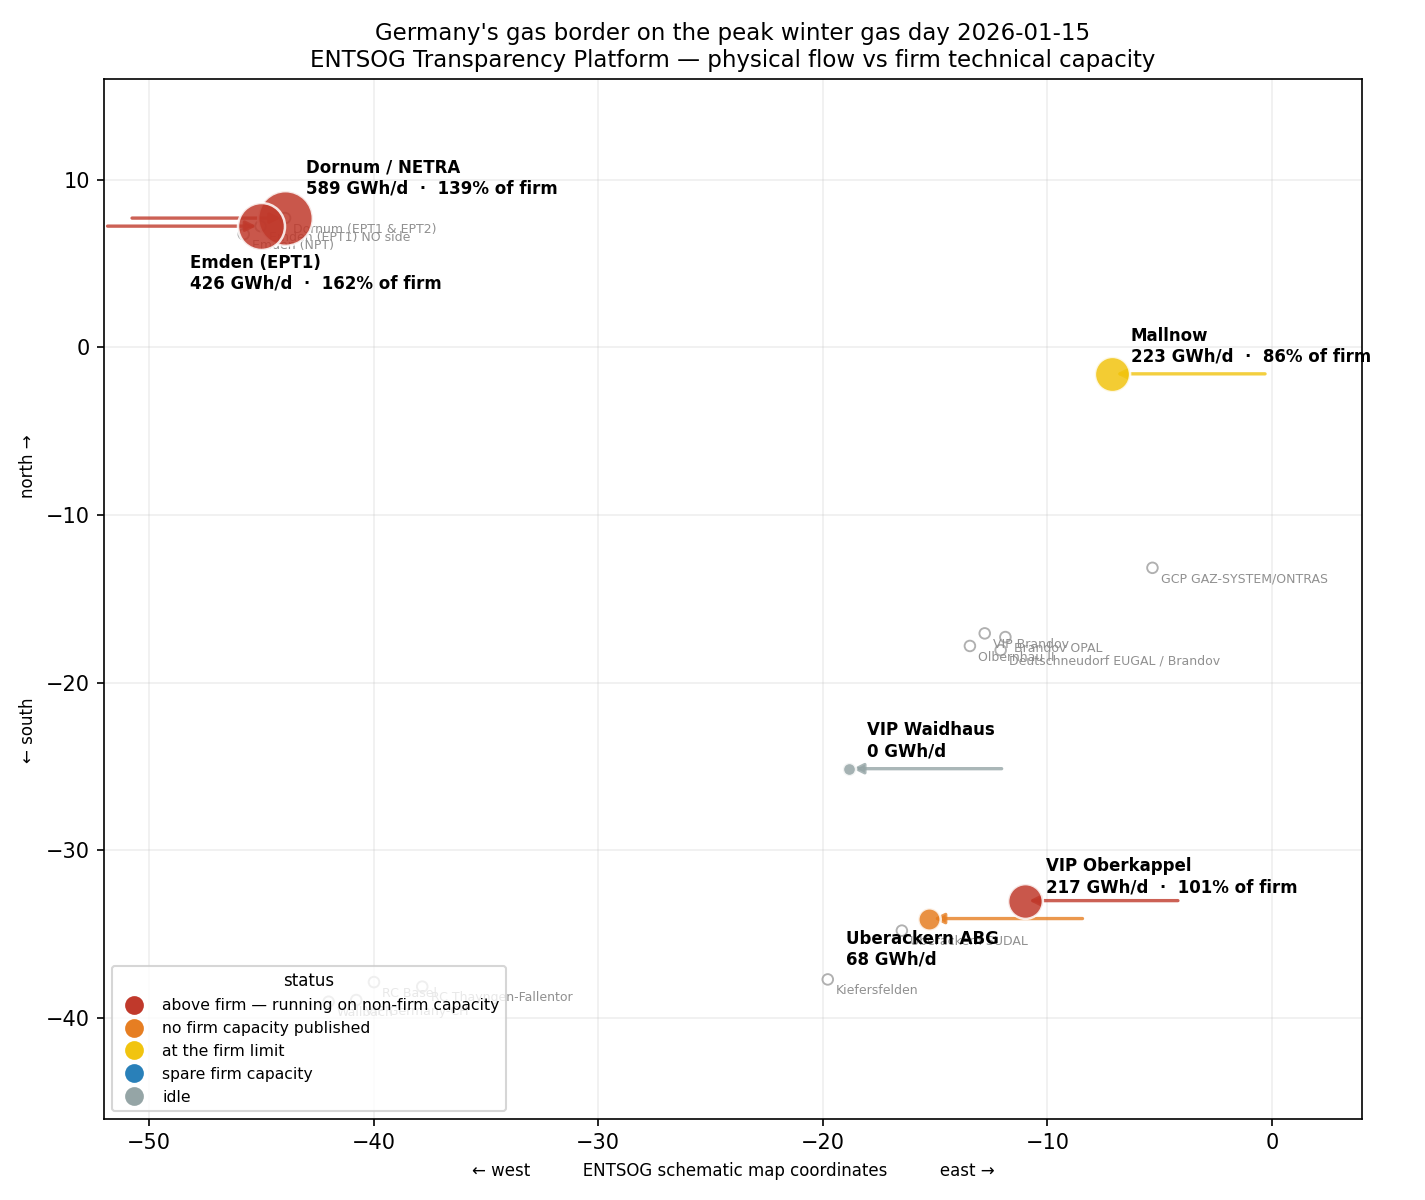
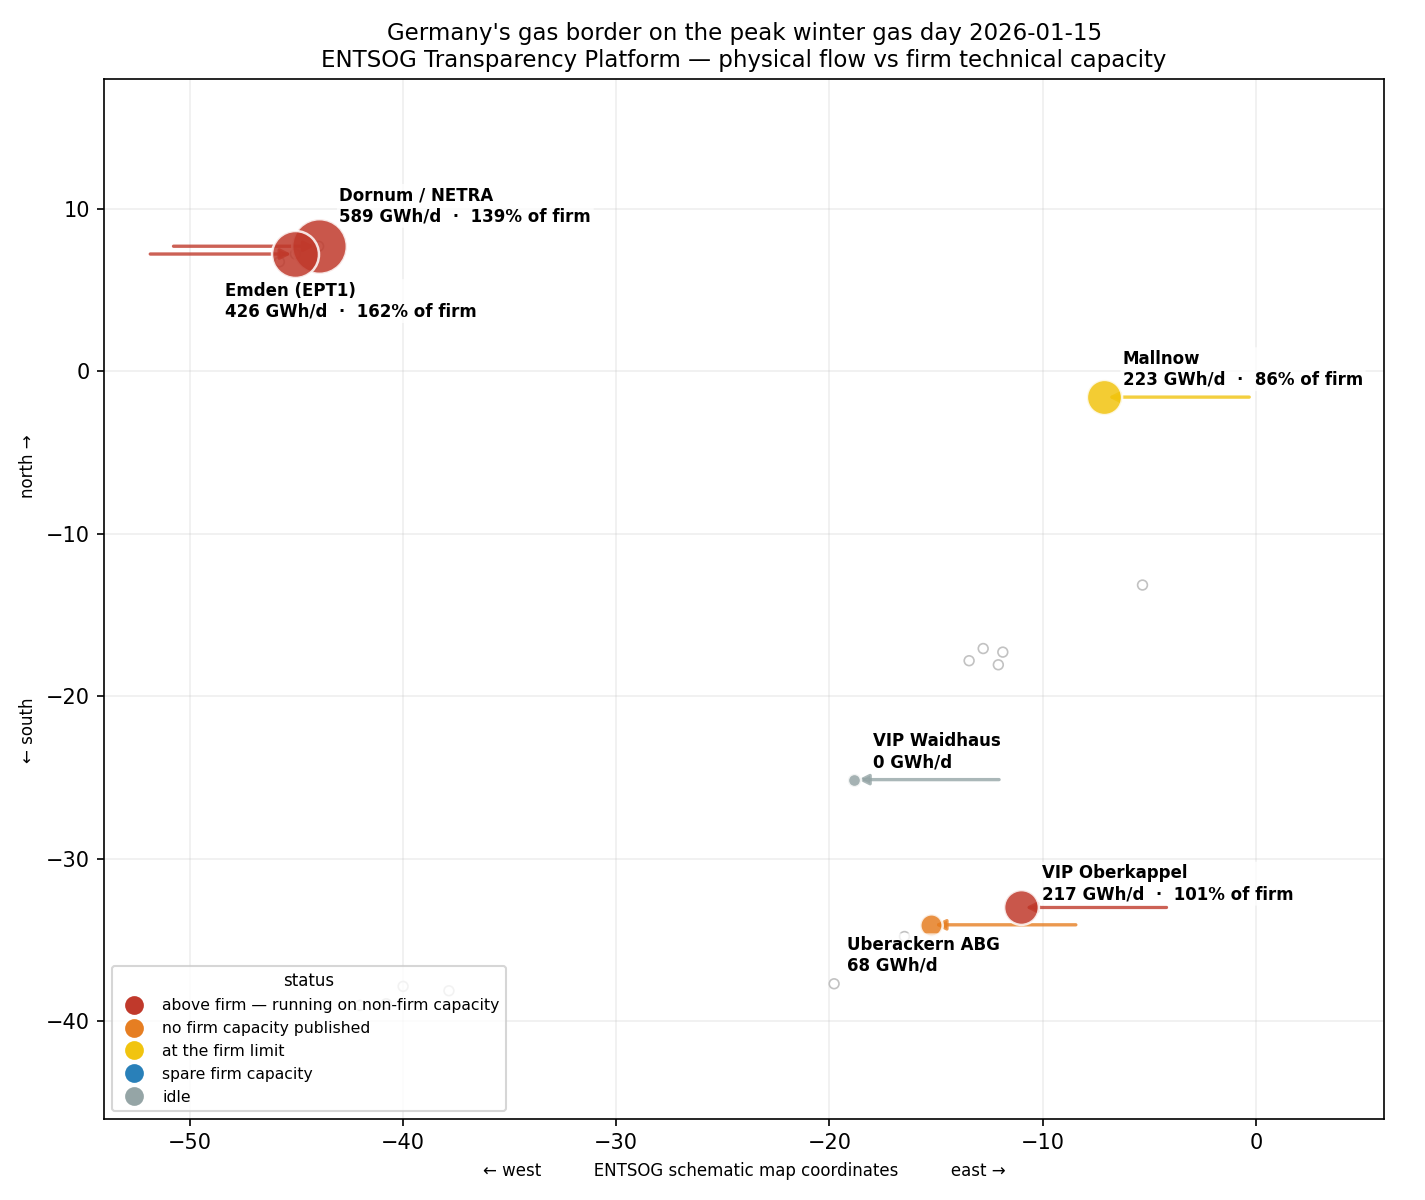
Declutter overlapping chart labels: spread weight-sensitivity end-labels; drop colliding topology labels on the network map

diff --git a/src/network_chart.py b/src/network_chart.py
@@ -20,12 +20,14 @@ def draw():
     snap = entsog.snapshot()
     fig, ax = plt.subplots(figsize=(9.5, 8))
 
-    # unmetered topology points: the rest of the border, for context
+    # Unmetered topology points: draw them as small hollow dots for context, but do NOT
+    # label every one — a dozen labels around Emden and Brandov collide into an unreadable
+    # smear. The metered points below carry the story and keep their labels.
     for p in snap["topology"]:
-        ax.scatter(p["x"], p["y"], s=26, facecolor="none", edgecolor="#b0b0b0",
-                   linewidth=.9, zorder=2)
-        ax.annotate(p["label"], (p["x"], p["y"]), fontsize=6, color="#909090",
-                    xytext=(4, -7), textcoords="offset points")
+        ax.scatter(p["x"], p["y"], s=22, facecolor="none", edgecolor="#c2c2c2",
+                   linewidth=.8, zorder=2)
+    ax.scatter([], [], s=22, facecolor="none", edgecolor="#c2c2c2",
+               label="other interconnection points")
 
     for p in snap["points"]:
         st = N.classify(p)
@@ -37,7 +39,8 @@ def draw():
                                     ("  ·  %.0f%% of firm" % (u * 100)) if u else "")
         ax.annotate(lab, (p["x"], p["y"]), fontsize=8, fontweight="bold",
                     xytext=OFFSET.get(p["label"], (9, 6)),
-                    textcoords="offset points", zorder=5)
+                    textcoords="offset points", zorder=6,
+                    bbox=dict(boxstyle="round,pad=0.15", fc="white", ec="none", alpha=0.75))
         ax.annotate("", xy=(p["x"], p["y"]),
                     xytext=(p["x"] - (7 if p["direction"] == "entry" else -7), p["y"]),
                     arrowprops=dict(arrowstyle="-|>", color=COL[st], lw=1.6, alpha=.8), zorder=3)
@@ -50,7 +53,7 @@ def draw():
     handles = [plt.Line2D([], [], marker="o", ls="", color=c, label=k, markersize=8)
                for k, c in COL.items()]
     ax.legend(handles=handles, fontsize=7.5, loc="lower left", title="status", title_fontsize=8)
-    ax.grid(alpha=.2); ax.set_xlim(-52, 4); ax.set_ylim(-46, 16)
+    ax.grid(alpha=.2); ax.set_xlim(-54, 6); ax.set_ylim(-46, 18)
     fig.tight_layout(); fig.savefig(os.path.join(OUT, "network_map.png"), dpi=150); plt.close(fig)
 
 def corridor_chart():